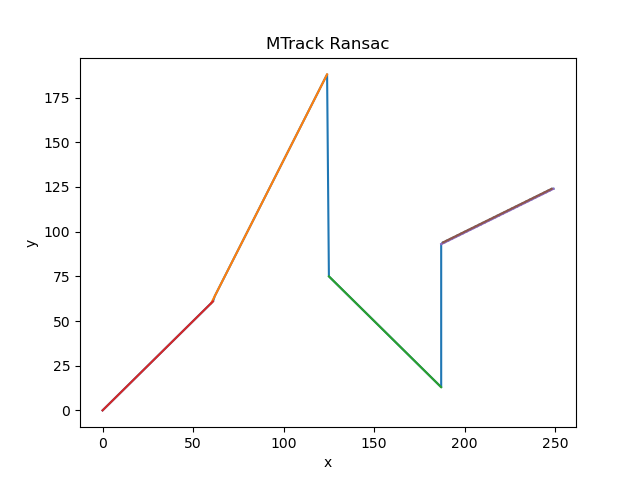
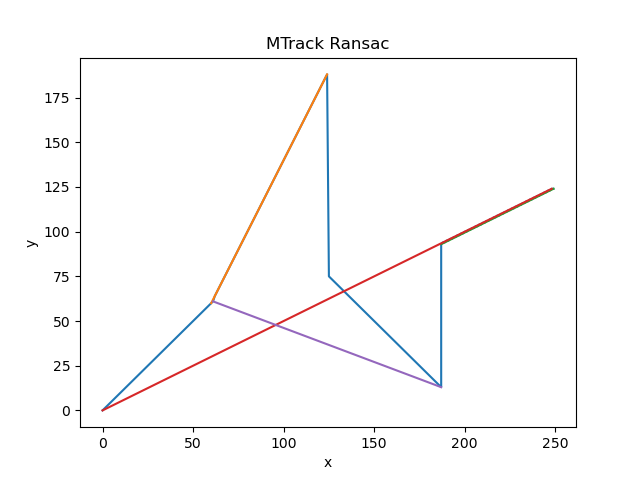
return inliers

diff --git a/src/caped_ai_mtrack/Fits/ransac.py b/src/caped_ai_mtrack/Fits/ransac.py
@@ -78,6 +78,7 @@ class Ransac:
             starting_points = starting_points.tolist()
 
         print("starting_points", len(starting_points))
+
         y, X = zip(*starting_points)
         y = np.asarray(y)
         X = np.asarray(X)
@@ -222,6 +223,7 @@ class Ransac:
     def extract_multiple_lines(self):
 
         starting_points = np.asarray(self.data_points)
+
         data_points_list = np.copy(self.data_points)
         data_points_list = data_points_list.tolist()
         estimators = []
@@ -252,9 +254,8 @@ class Ransac:
 
                 break
             starting_points = inliers_removed_from_starting
-
         segments = clean_ransac(estimators, estimator_inliers)
         yarray, xarray = zip(*data_points_list)
         plot_ransac_gt(segments, yarray, xarray, save_name=self.save_name)
 
-        return estimators, segments
+        return estimators, estimator_inliers

diff --git a/src/caped_ai_mtrack/_tests/test_ransac.py b/src/caped_ai_mtrack/_tests/test_ransac.py
@@ -32,7 +32,6 @@ def test_quadratic_points_ransac(
         max_trials=10000,
         iterations=10,
         residual_threshold=0.01,
-        max_distance=10,
         save_name=save_name,
     )
     estimators, segments = ransac_quad.extract_multiple_lines()
@@ -64,7 +63,6 @@ def test_linear_points_ransac(
         max_trials=10000,
         iterations=10,
         residual_threshold=0.01,
-        max_distance=10,
         save_name=save_name,
     )
     estimators, segments = ransac_line.extract_multiple_lines()
